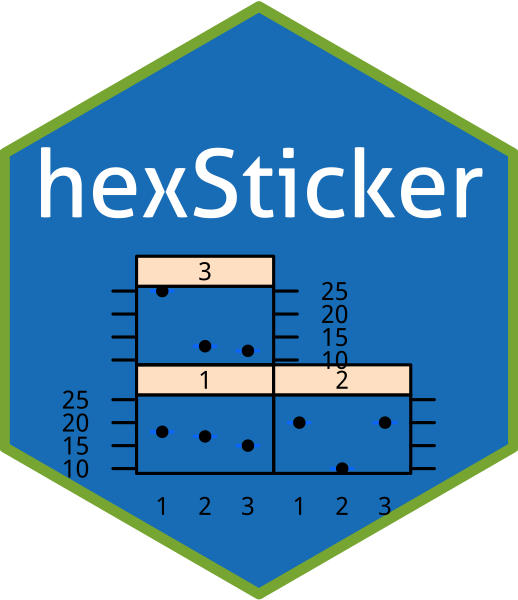
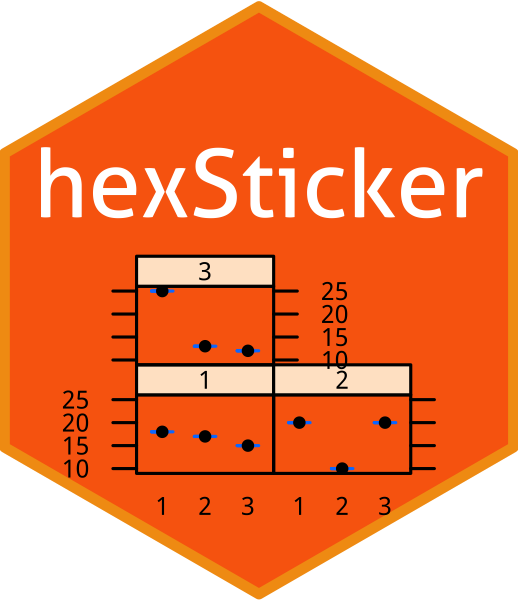
change color example

diff --git a/README.md b/README.md
@@ -33,8 +33,10 @@ library(lattice)
 counts <- c(18,17,15,20,10,20,25,13,12)
 outcome <- gl(3,1,9)
 treatment <- gl(3,3)
-bwplot <- bwplot(counts ~ outcome | treatment, xlab=NULL, ylab=NULL, cex=.5, scales=list(cex=.5), par.strip.text=list(cex=.5))
-sticker(bwplot, package="hexSticker", p_size=8, s_x=1.05, s_y=.75, s_width=1.1, s_height=.8, filename="inst/figures/lattice.png")
+bwplot <- bwplot(counts ~ outcome | treatment, xlab=NULL, ylab=NULL, cex=.5,
+                 scales=list(cex=.5), par.strip.text=list(cex=.5))
+sticker(bwplot, package="hexSticker", p_size=8, s_x=1.05, s_y=.75, s_width=1.1, s_height=.8,
+        h_fill="#f9690e", h_color="#f39c12", filename="inst/figures/lattice.png")
 ```
 
 <img src="inst/figures/lattice.png" height=300"/>
@@ -47,7 +49,8 @@ library(ggplot2)
 p <- ggplot(aes(x = mpg, y = wt), data = mtcars) + geom_point()
 p <- p + theme_void() + theme_transparent()
 
-sticker(p, package="hexSticker", p_size=8, s_x=1, s_y=.75, s_width=.8, s_height=.45, filename="inst/figures/ggplot2.png")
+sticker(p, package="hexSticker", p_size=8, s_x=1, s_y=.75, s_width=.8, s_height=.45,
+        filename="inst/figures/ggplot2.png")
 ```
 
 <img src="inst/figures/ggplot2.png" height=300"/>
@@ -84,16 +87,19 @@ tr <- rtree(n)
 set.seed(2016-10-25)
 tr$tip.label = sample(unique(names(grl)), n)
 
-p <- ggtree(tr, color='grey') + geom_tiplab(align=T, linesize=.05, linetype='dashed', size=1.2, color='grey')
+p <- ggtree(tr, color='grey') + geom_tiplab(align=T, linesize=.05,
+                                            linetype='dashed', size=1.2, color='grey')
 
 ##  align the alignment with tree
-p2 <- facet_plot(p, 'Alignment', grl, geom_alignment, inherit.aes=FALSE, alpha=.6, size=.1, mapping=aes(), color='grey', extend.size=.1)
+p2 <- facet_plot(p, 'Alignment', grl, geom_alignment, inherit.aes=FALSE,
+                 alpha=.6, size=.1, mapping=aes(), color='grey', extend.size=.1)
 p2 <- p2 + theme_transparent() + theme(strip.text = element_blank())+xlim_tree(3.4)
 
 
 #################################
 library(hexSticker)
-sticker(p2, package="ggtree", p_x=1, p_y=1.5, p_size=9, s_x=.85, s_y = .68, s_width=.95, s_height=.65)
+sticker(p2, package="ggtree", p_x=1, p_y=1.5, p_size=9, s_x=.85, s_y = .68, s_width=.95, s_height=.65,
+        filename="inst/figures/ggtree.png")
 ```
 
 <img src="inst/figures/ggtree.png" height=300"/>
@@ -105,7 +111,8 @@ local image file
 imgurl <- "http://www.belleamibengals.com/bengal_cat_2.png"
 imgfile <- tempfile(fileext=".png")
 download.file(imgurl,imgfile,mode="wb")
-sticker(imgfile, package="hexSticker", p_size=8, s_x=1, s_y=.75, s_width=.6, s_height=.4, filename="inst/figures/imgfile.png")
+sticker(imgfile, package="hexSticker", p_size=8, s_x=1, s_y=.75, s_width=.6, s_height=.4,
+        filename="inst/figures/imgfile.png")
 ```
 
 <img src="inst/figures/imgfile.png" height=300"/>
